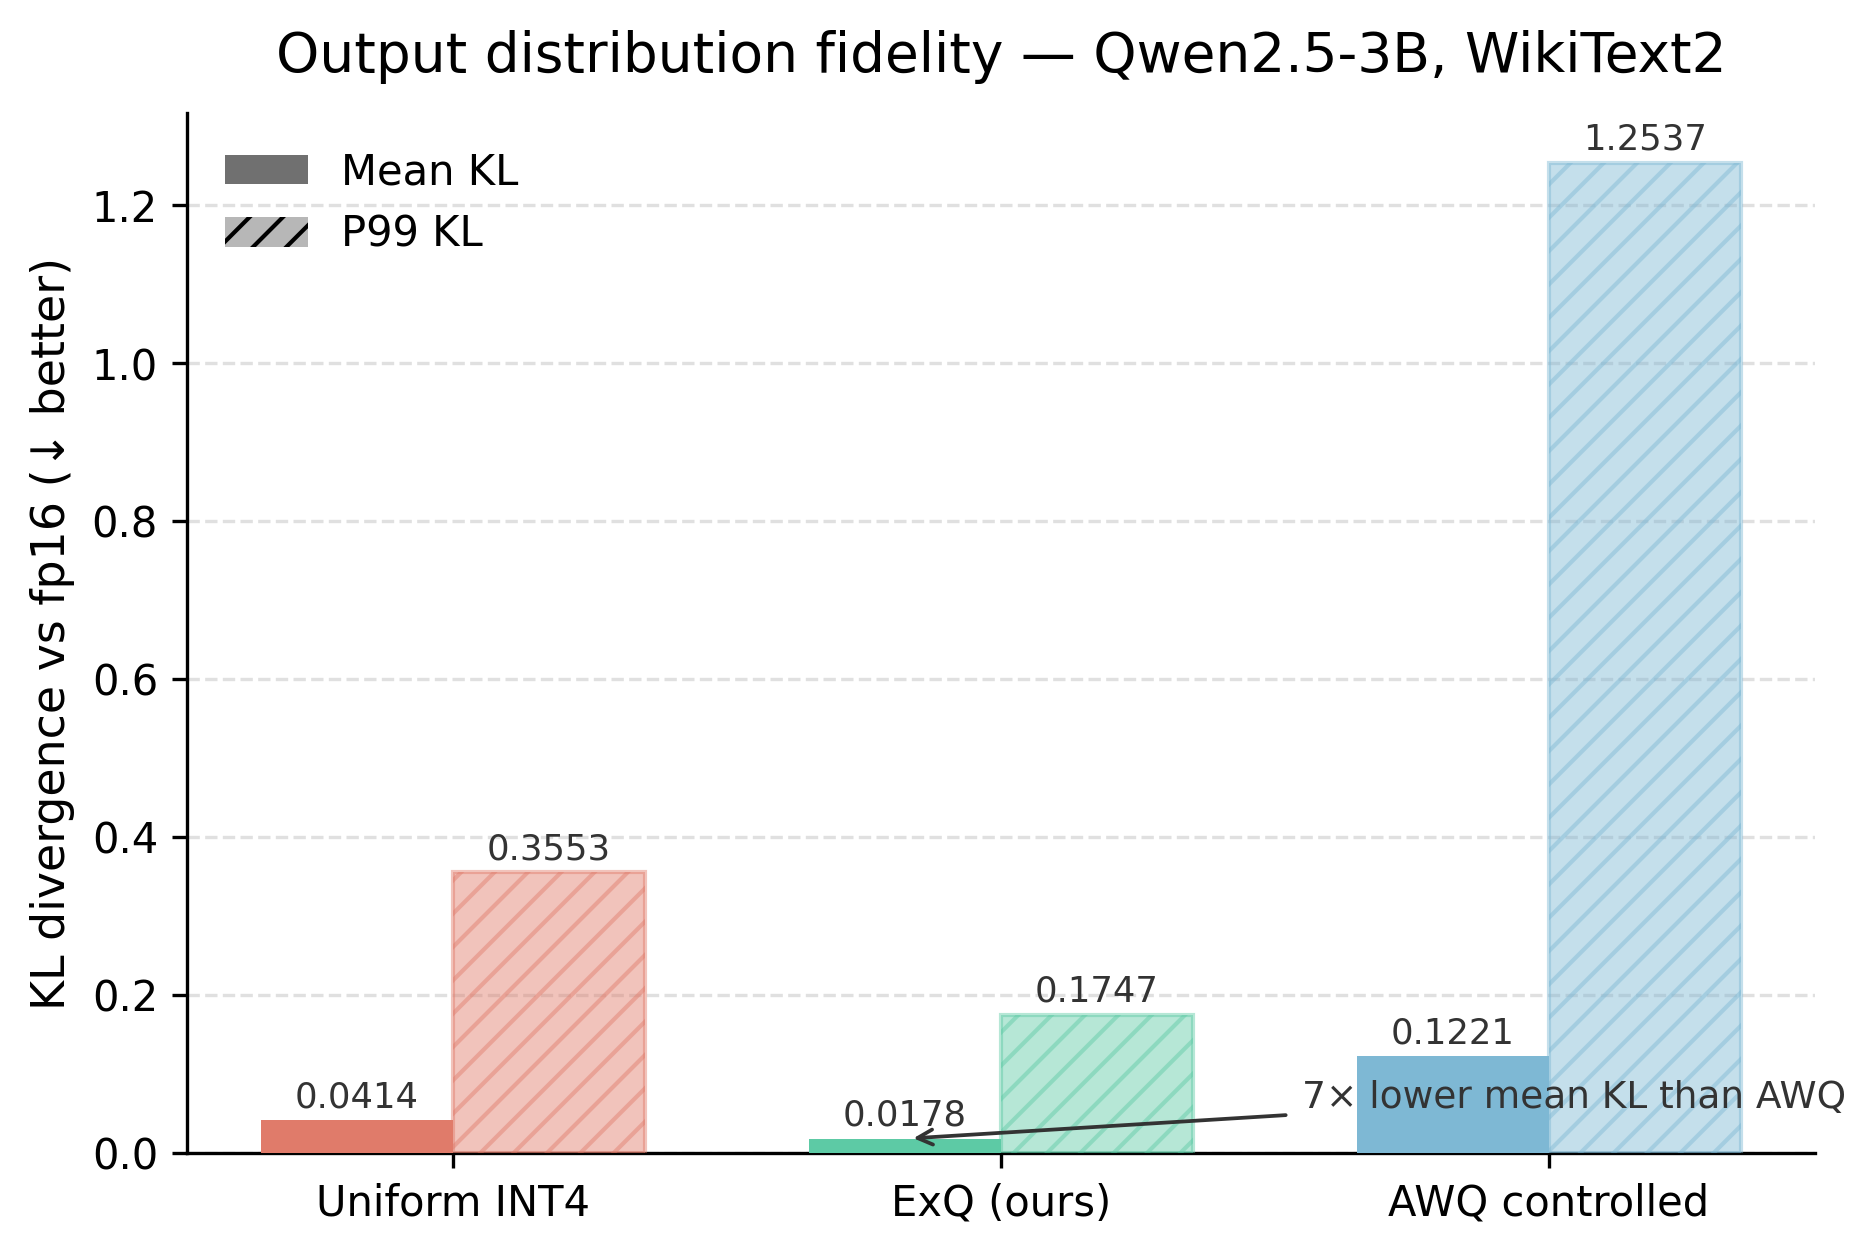
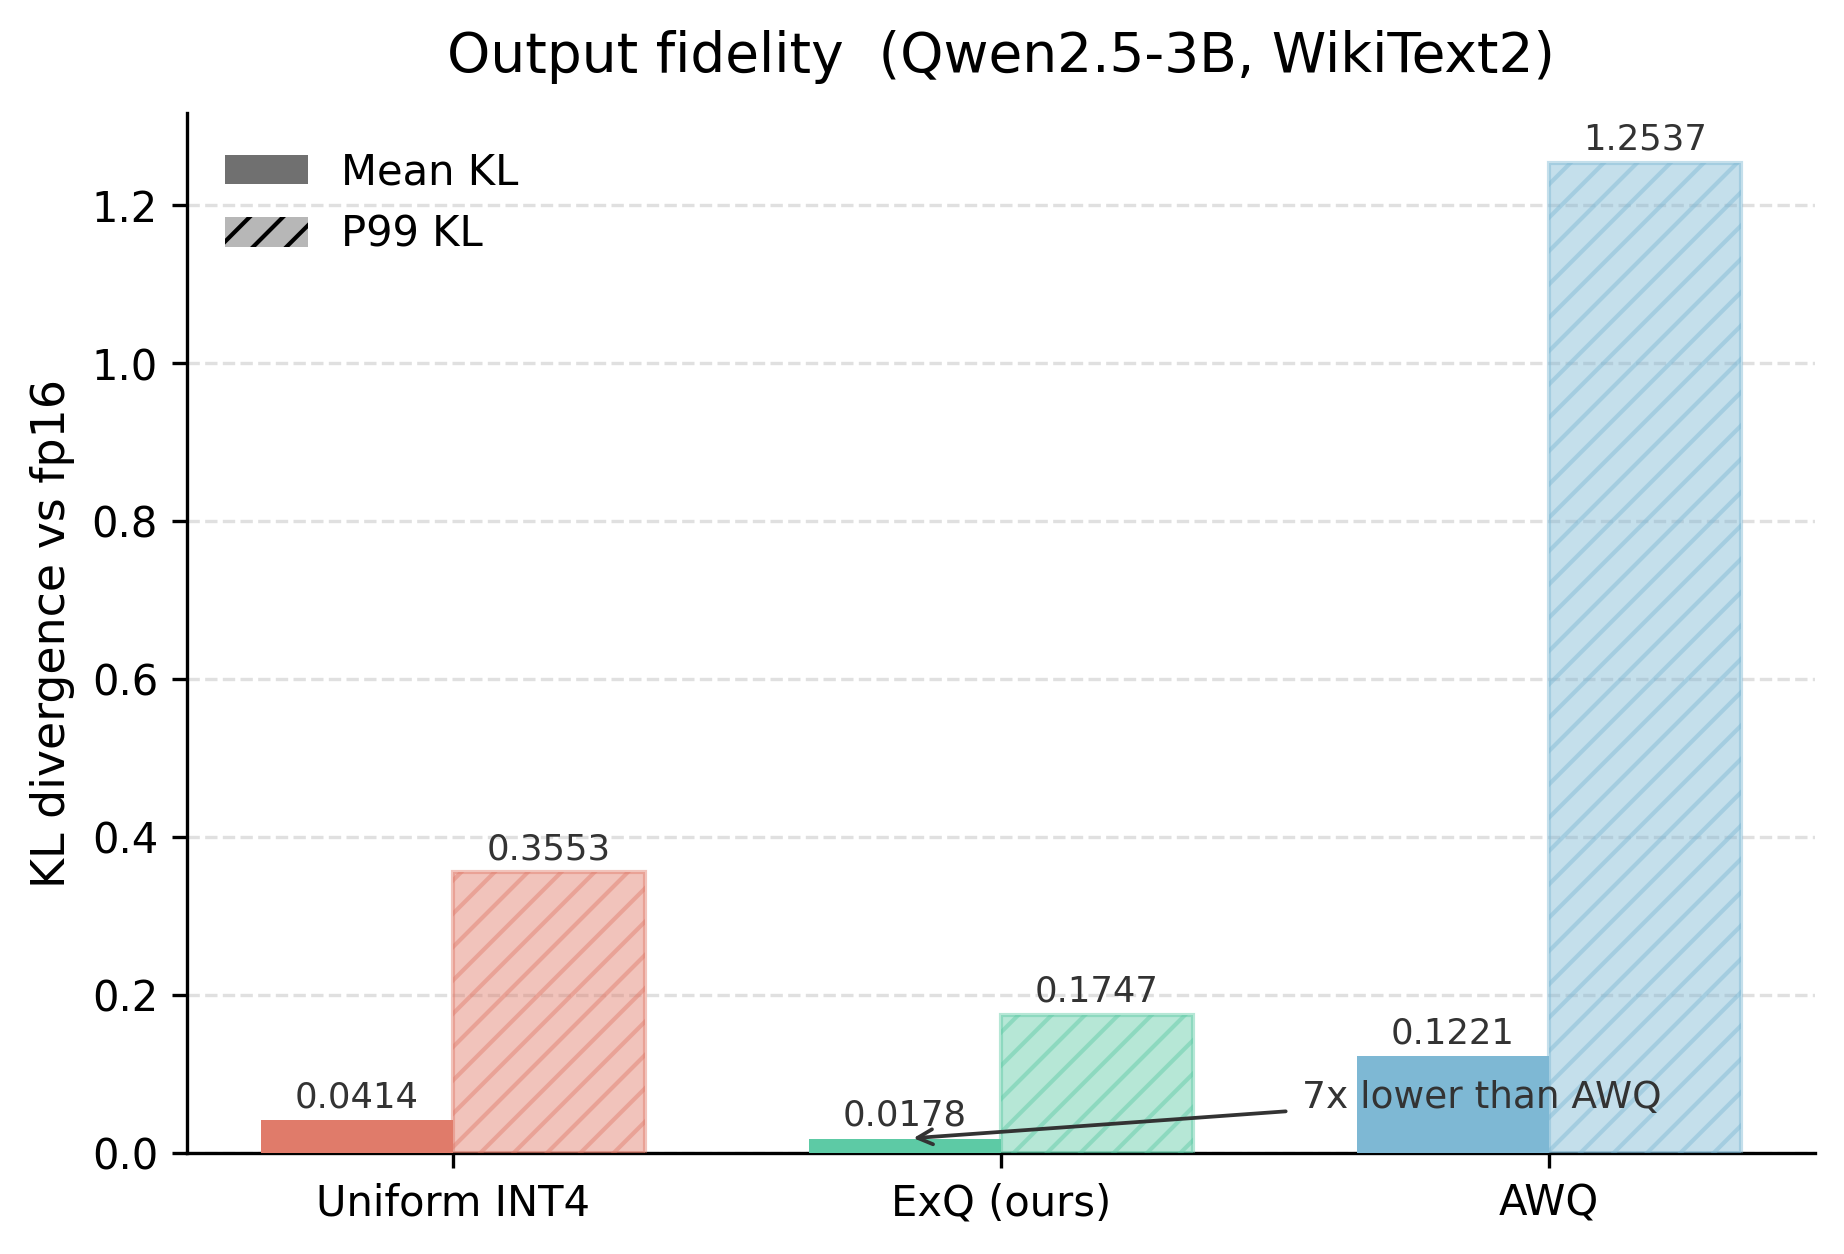
figures: clean up all five plots
Removed:
- All em dashes and en dashes from titles and labels
- Verbose subtitle text (A10G, decode regime, seqlen=1 etc)
- Inline comments and section headers in the code
- Redundant docstring narrative

Fig 1: title 'ExQ INT4 vs SGLang INT4  (same weights, A10G, seqlen=1)'
       y-axis 'ms / token' (was 'Time per output token (ms)')
Fig 2: title 'quant_diff predicts ExQ benefit'
Fig 3: title 'Output fidelity  (Qwen2.5-3B, WikiText2)'
       annotation '7x lower than AWQ' (no em dash)
       y-axis 'KL divergence vs fp16'
Fig 4: title 'ExQ compile time'
       labels shortened (no newline node counts)
Fig 5: subtitle 'ExQ INT4 vs SGLang INT4  (same weights, seqlen=1, A10G)'
       x-axis 'Concurrent decode requests'

diff --git a/figures/fig5_batch_sweep.py b/figures/fig5_batch_sweep.py
@@ -1,82 +1,59 @@
-"""
-Fig 5 — Full production batch sweep: ExQ INT4 vs SGLang INT4
-
-Fair comparison: same packed INT4 weights, same precision.
-Seqlen=1 (pure decode), 1-512 concurrent requests.
-Cross-over point clearly visible on log x-axis.
-
-Data from results/int4_production_batch.json.
-"""
+"""Fig 5: Batch sweep, ExQ INT4 vs SGLang INT4, 1-512 concurrent requests."""
 
 import json
-
 import matplotlib.pyplot as plt
-import numpy as np
 from figures.style import apply_style, CORAL, TEAL, DARK, save
 
 apply_style()
 
-prod = json.load(open("results/int4_production_batch.json"))
-
+prod    = json.load(open("results/int4_production_batch.json"))
 batches = [1, 4, 8, 16, 32, 64, 128, 256, 512]
 
-def get_series(model_key):
+def series(model_key):
     sw = prod[model_key]["batch_sweep"]
-    sg  = [sw[str(b)]["sglang_p50"] for b in batches]
-    exq = [sw[str(b)]["exq_p50"]    for b in batches]
-    return sg, exq
-
-olmoe_sg, olmoe_exq = get_series("olmoe")
-qwen_sg,  qwen_exq  = get_series("qwen3")
+    return ([sw[str(b)]["sglang_p50"] for b in batches],
+            [sw[str(b)]["exq_p50"]    for b in batches])
 
 fig, axes = plt.subplots(1, 2, figsize=(11, 4.5))
 
-for ax, sg, exq, title, crossover_batch in [
-    (axes[0], olmoe_sg, olmoe_exq, "OLMoE-1B-7B\n(64 experts, top-2)",  128),
-    (axes[1], qwen_sg,  qwen_exq,  "Qwen3-30B-A3B\n(128 experts, top-8)", 256),
+for ax, model, title, crossover in [
+    (axes[0], "olmoe", "OLMoE-1B-7B  (64 experts, top-2)",   128),
+    (axes[1], "qwen3", "Qwen3-30B-A3B  (128 experts, top-8)", 256),
 ]:
+    sg, exq = series(model)
+
     ax.plot(batches, sg,  color=CORAL, marker="o", linewidth=2,
             markersize=5.5, label="SGLang INT4", zorder=4)
     ax.plot(batches, exq, color=TEAL,  marker="s", linewidth=2,
             markersize=5.5, label="ExQ INT4",    zorder=4)
 
-    # Shade ExQ-wins region
-    xs_win = [b for b in batches if b >= crossover_batch]
-    sg_win  = [sg[batches.index(b)]  for b in xs_win]
-    exq_win = [exq[batches.index(b)] for b in xs_win]
-    ax.fill_between(xs_win, exq_win, sg_win, alpha=0.12, color=TEAL, zorder=2)
+    xs_win  = [b for b in batches if b >= crossover]
+    ax.fill_between(xs_win,
+                    [exq[batches.index(b)] for b in xs_win],
+                    [sg[batches.index(b)]  for b in xs_win],
+                    alpha=0.12, color=TEAL, zorder=2)
 
-    # Cross-over annotation
-    ax.axvline(crossover_batch, color=DARK, linewidth=0.9,
-               linestyle="--", alpha=0.35, zorder=3)
-    ax.text(crossover_batch * 1.08, ax.get_ylim()[1] if ax.get_ylim()[1] > 0 else 3,
-            f"cross-over\nbatch={crossover_batch}",
-            fontsize=7.5, color=DARK, alpha=0.6, va="top")
+    ax.axvline(crossover, color=DARK, linewidth=0.9, linestyle="--", alpha=0.35, zorder=3)
 
-    # Delta annotations at selected points
     for b, sv, ev in zip(batches, sg, exq):
-        if b in (128, 256, 512) or (b <= 64 and b in (1, 32, 64)):
+        if b in (1, 32, 64, 128, 256, 512):
             d = (sv - ev) / sv * 100
             color = "#0A6E56" if d > 0 else "#8B1A0E"
-            offset_x = b * 0.08
-            offset_y = -0.12 if d > 0 else 0.08
-            ax.annotate(f"{d:+.0f}%", xy=(b, min(sv, ev)),
-                        xytext=(b + offset_x, min(sv, ev) + offset_y),
+            ax.annotate(f"{d:+.0f}%",
+                        xy=(b, min(sv, ev)),
+                        xytext=(b * 1.08, min(sv, ev) + (-0.12 if d > 0 else 0.08)),
                         fontsize=7, color=color, ha="left",
                         fontweight="bold" if abs(d) > 20 else "normal")
 
     ax.set_xscale("log")
     ax.set_xticks(batches)
     ax.set_xticklabels([str(b) for b in batches], fontsize=9)
-    ax.set_xlabel("Concurrent decode requests (batch size)")
-    ax.set_ylabel("Time per output token (ms)")
+    ax.set_xlabel("Concurrent decode requests")
+    ax.set_ylabel("ms / token")
     ax.set_title(title, pad=8, fontsize=10)
     ax.legend(loc="upper left", fontsize=9)
 
-fig.suptitle(
-    "ExQ INT4 vs SGLang INT4 — same weights, decode regime (seqlen=1, A10G, 300-run P50)",
-    y=1.02, fontsize=10,
-)
+fig.suptitle("ExQ INT4 vs SGLang INT4  (same weights, seqlen=1, A10G)", y=1.02, fontsize=10)
 plt.tight_layout()
 save(fig, "figures/fig5_batch_sweep.png")
 plt.close()

diff --git a/figures/fig1_tpot.py b/figures/fig1_tpot.py
@@ -1,14 +1,6 @@
-"""
-Fig 1 — Headline result: ExQ INT4 vs SGLang INT4
-
-Fair comparison: same RTN-packed INT4 weights passed to both kernels.
-Shows the batches where ExQ wins most clearly.
-
-Data from results/int4_production_batch.json  (updated with optimized dispatch).
-"""
+"""Fig 1: ExQ INT4 vs SGLang INT4, production batch sizes."""
 
 import json
-
 import matplotlib.pyplot as plt
 import numpy as np
 from figures.style import apply_style, CORAL, TEAL, DARK, save, bar_label
@@ -17,57 +9,38 @@ apply_style()
 
 prod = json.load(open("results/int4_production_batch.json"))
 
-# ── Operating points: OLMoE batch=128 (+38%), OLMoE batch=256 (+35%), Qwen3 batch=256 (+33%)
 points = [
-    ("OLMoE\nbatch=128",
-     prod["olmoe"]["batch_sweep"]["128"]["sglang_p50"],
-     prod["olmoe"]["batch_sweep"]["128"]["exq_p50"]),
-    ("OLMoE\nbatch=256",
-     prod["olmoe"]["batch_sweep"]["256"]["sglang_p50"],
-     prod["olmoe"]["batch_sweep"]["256"]["exq_p50"]),
-    ("Qwen3-30B\nbatch=256",
-     prod["qwen3"]["batch_sweep"]["256"]["sglang_p50"],
-     prod["qwen3"]["batch_sweep"]["256"]["exq_p50"]),
+    ("OLMoE\nbatch=128",  "olmoe", "128"),
+    ("OLMoE\nbatch=256",  "olmoe", "256"),
+    ("Qwen3-30B\nbatch=256", "qwen3", "256"),
 ]
 
 groups   = [p[0] for p in points]
-baseline = [p[1] for p in points]
-exq      = [p[2] for p in points]
+baseline = [prod[p[1]]["batch_sweep"][p[2]]["sglang_p50"] for p in points]
+exq      = [prod[p[1]]["batch_sweep"][p[2]]["exq_p50"]    for p in points]
 speedups = [(b - e) / b * 100 for b, e in zip(baseline, exq)]
 
-x     = np.arange(len(groups))
-width = 0.35
-
+x, width = np.arange(len(groups)), 0.35
 fig, ax = plt.subplots(figsize=(7, 4.5))
 
-bars_base = ax.bar(x - width / 2, baseline, width,
-                   label="SGLang INT4", color=CORAL, zorder=3)
-bars_exq  = ax.bar(x + width / 2, exq,      width,
-                   label="ExQ INT4",   color=TEAL,  zorder=3)
+bars_base = ax.bar(x - width/2, baseline, width, label="SGLang INT4", color=CORAL, zorder=3)
+bars_exq  = ax.bar(x + width/2, exq,      width, label="ExQ INT4",    color=TEAL,  zorder=3)
 
 for bar in bars_base:
     bar_label(ax, bar, f"{bar.get_height():.3f}", offset=0.03)
 
 for bar, sp in zip(bars_exq, speedups):
     bar_label(ax, bar, f"{bar.get_height():.3f}", offset=0.03)
-    ax.text(
-        bar.get_x() + bar.get_width() / 2,
-        bar.get_height() + 0.14,
-        f"+{sp:.0f}%",
-        ha="center", va="bottom",
-        fontsize=9, color="#0A6E56", fontweight="bold",
-    )
+    ax.text(bar.get_x() + bar.get_width()/2, bar.get_height() + 0.14,
+            f"+{sp:.0f}%", ha="center", va="bottom",
+            fontsize=9, color="#0A6E56", fontweight="bold")
 
-ax.set_ylabel("Time per output token (ms)")
+ax.set_ylabel("ms / token")
 ax.set_xticks(x)
 ax.set_xticklabels(groups, fontsize=10)
 ax.set_ylim(0, max(baseline) * 1.45)
 ax.legend(loc="upper right")
-ax.set_title(
-    "ExQ INT4 vs SGLang INT4 — same packed weights, production batch sizes\n"
-    "A10G · decode (seqlen=1) · 300-run P50",
-    pad=10, fontsize=10,
-)
+ax.set_title("ExQ INT4 vs SGLang INT4  (same weights, A10G, seqlen=1)", pad=10)
 
 save(fig, "figures/fig1_tpot.png")
 plt.close()

diff --git a/figures/fig2_diagnostic.py b/figures/fig2_diagnostic.py
@@ -1,14 +1,4 @@
-"""
-Fig 2 — Diagnostic score vs PPL recovery
-
-Scatter: quant_diff (compile-time diagnostic) vs actual PPL recovery.
-All 6 evaluated models including negative results.
-
-quant_diff from artifacts: count(INT8+BF16) / total_experts
-recovery   from eval_log.txt: avg across wikitext2 and c4
-"""
-
-import json
+"""Fig 2: quant_diff diagnostic score vs PPL recovery."""
 
 import matplotlib.pyplot as plt
 import numpy as np
@@ -16,9 +6,7 @@ from figures.style import apply_style, CORAL, TEAL, DARK, save
 
 apply_style()
 
-# ── Data from artifacts and eval logs ─────────────────────────────────────────
 data = [
-    # (quant_diff, recovery_pct, label, model_type)
     (0.429,  52.9, "OLMoE-1B-7B",   "MoE"),
     (0.010,   1.4, "Qwen1.5-MoE",   "MoE"),
     (0.003,  -0.3, "DeepSeek-V2",   "MoE"),
@@ -29,15 +17,14 @@ data = [
 
 moe_pts   = [(d[0], d[1]) for d in data if d[3] == "MoE"]
 dense_pts = [(d[0], d[1]) for d in data if d[3] == "Dense"]
-all_x     = [d[0] for d in data]
-all_y     = [d[1] for d in data]
+all_x, all_y = [d[0] for d in data], [d[1] for d in data]
 
 fig, ax = plt.subplots(figsize=(6.5, 4.5))
 
 ax.scatter([p[0] for p in moe_pts],   [p[1] for p in moe_pts],
            color=CORAL, s=80, zorder=4, label="MoE")
 ax.scatter([p[0] for p in dense_pts], [p[1] for p in dense_pts],
-           color=TEAL,  s=80, zorder=4, marker="s", label="Dense")
+           color=TEAL, s=80, zorder=4, marker="s", label="Dense")
 
 m, b = np.polyfit(all_x, all_y, 1)
 xs   = np.linspace(-0.01, max(all_x) * 1.05, 200)
@@ -45,7 +32,7 @@ ax.plot(xs, m * xs + b, color=DARK, linewidth=1.0, linestyle="--", alpha=0.4, zo
 
 r = float(np.corrcoef(all_x, all_y)[0, 1])
 
-label_offsets = {
+offsets = {
     "OLMoE-1B-7B":   ( 0.008,  2.5),
     "Qwen1.5-MoE":   ( 0.006, -8.0),
     "DeepSeek-V2":   ( 0.006,  2.5),
@@ -54,14 +41,14 @@ label_offsets = {
     "Qwen2.5-1.5B":  (-0.042, -8.5),
 }
 for qd, rec, label, _ in data:
-    dx, dy = label_offsets[label]
+    dx, dy = offsets[label]
     ax.annotate(label, (qd, rec), xytext=(qd + dx, rec + dy),
                 fontsize=8.5, color=DARK)
 
 ax.axhline(0, color=DARK, linewidth=0.6, alpha=0.35)
 ax.set_xlabel("quant_diff  (fraction of experts at INT8 or BF16)")
 ax.set_ylabel("PPL recovery vs uniform INT4 (%)")
-ax.set_title("Compile-time diagnostic predicts ExQ benefit", pad=10)
+ax.set_title("quant_diff predicts ExQ benefit", pad=10)
 ax.legend(loc="upper left")
 ax.text(0.97, 0.05, f"r = {r:.2f}  (all 6 models)",
         transform=ax.transAxes, ha="right", va="bottom",

diff --git a/figures/fig3_kl.py b/figures/fig3_kl.py
@@ -1,12 +1,6 @@
-"""
-Fig 3 — KL divergence vs fp16 output distribution
-
-Qwen2.5-3B, WikiText2.
-Data from results/kl_qwen2.5-3b_*.json
-"""
+"""Fig 3: KL divergence vs fp16, Qwen2.5-3B, WikiText2."""
 
 import json
-
 import matplotlib.pyplot as plt
 import numpy as np
 from matplotlib.patches import Patch
@@ -18,22 +12,18 @@ kl_i4  = json.load(open("results/kl_qwen2.5-3b_int4.json"))
 kl_exq = json.load(open("results/kl_qwen2.5-3b_rpgo_dense.json"))
 kl_awq = json.load(open("results/kl_qwen2.5-3b_awq_controlled.json"))
 
-variants = ["Uniform INT4", "ExQ (ours)", "AWQ controlled"]
-mean_kl  = [kl_i4["mean"],  kl_exq["mean"],  kl_awq["mean"]]
-p99_kl   = [kl_i4["p99"],   kl_exq["p99"],   kl_awq["p99"]]
+variants = ["Uniform INT4", "ExQ (ours)", "AWQ"]
+mean_kl  = [kl_i4["mean"], kl_exq["mean"], kl_awq["mean"]]
+p99_kl   = [kl_i4["p99"],  kl_exq["p99"],  kl_awq["p99"]]
 colors   = [CORAL, TEAL, BLUE]
 
-x     = np.arange(len(variants))
-width = 0.35
-
+x, width = np.arange(len(variants)), 0.35
 fig, ax = plt.subplots(figsize=(7, 4.5))
 
-bars_mean = [ax.bar(xi - width/2, mean_kl[i], width,
-                    color=colors[i], zorder=3)
+bars_mean = [ax.bar(xi - width/2, mean_kl[i], width, color=colors[i], zorder=3)
              for i, xi in enumerate(x)]
-bars_p99  = [ax.bar(xi + width/2, p99_kl[i],  width,
-                    color=colors[i], alpha=0.45, hatch="///",
-                    zorder=3, edgecolor=colors[i])
+bars_p99  = [ax.bar(xi + width/2, p99_kl[i],  width, color=colors[i],
+                    alpha=0.45, hatch="///", zorder=3, edgecolor=colors[i])
              for i, xi in enumerate(x)]
 
 for bar in [b[0] for b in bars_mean]:
@@ -41,18 +31,18 @@ for bar in [b[0] for b in bars_mean]:
 for bar in [b[0] for b in bars_p99]:
     bar_label(ax, bar, f"{bar.get_height():.4f}", offset=0.008, fontsize=8.5)
 
-ax.set_ylabel("KL divergence vs fp16 (↓ better)")
+ax.set_ylabel("KL divergence vs fp16")
 ax.set_xticks(x)
 ax.set_xticklabels(variants)
-ax.set_title("Output distribution fidelity — Qwen2.5-3B, WikiText2", pad=10)
+ax.set_title("Output fidelity  (Qwen2.5-3B, WikiText2)", pad=10)
 ax.legend(handles=[
-    Patch(facecolor=DARK, alpha=0.7, label="Mean KL"),
+    Patch(facecolor=DARK, alpha=0.7,  label="Mean KL"),
     Patch(facecolor=DARK, alpha=0.35, hatch="///", label="P99 KL"),
 ], loc="upper left")
 
 reduction = mean_kl[2] / mean_kl[1]
 ax.annotate(
-    f"{reduction:.0f}× lower mean KL than AWQ",
+    f"{reduction:.0f}x lower than AWQ",
     xy=(x[1] - width/2, mean_kl[1]),
     xytext=(x[1] + 0.55, mean_kl[1] + 0.04),
     arrowprops=dict(arrowstyle="->", color=DARK, lw=0.9),

diff --git a/figures/fig4_compile_time.py b/figures/fig4_compile_time.py
@@ -1,11 +1,6 @@
-"""
-Fig 4 — Compile time across all 7 models
-
-Data from results/compile_stats.json, ordered by node count.
-"""
+"""Fig 4: Compile time across 7 models."""
 
 import json
-
 import matplotlib.pyplot as plt
 from matplotlib.patches import Patch
 from figures.style import apply_style, CORAL, TEAL, DARK, save
@@ -14,15 +9,14 @@ apply_style()
 
 cs = json.load(open("results/compile_stats.json"))
 
-# (label, key, type)  — ordered by node count ascending
 models = [
-    ("Qwen2.5-1.5B\n(Dense, 336 nodes)",    "qwen2_5_1_5b_dense", "Dense"),
-    ("Qwen2.5-3B\n(Dense, 576 nodes)",       "qwen2_5_3b_dense",   "Dense"),
-    ("OLMoE-1B-7B\n(MoE, 1,024 nodes)",      "olmoe",              "MoE"),
-    ("Qwen1.5-MoE\n(MoE, 1,440 nodes)",      "qwen1_5",            "MoE"),
-    ("DeepSeek-V2-Lite\n(MoE, 1,664 nodes)", "deepseek",           "MoE"),
-    ("GLM-4.7-Flash\n(MoE, 2,944 nodes)",    "glm_reduced8",       "MoE"),
-    ("Qwen3-30B-A3B\n(MoE, 6,144 nodes)",    "qwen3_30b",          "MoE"),
+    ("Qwen2.5-1.5B (Dense, 336)",   "qwen2_5_1_5b_dense", "Dense"),
+    ("Qwen2.5-3B (Dense, 576)",     "qwen2_5_3b_dense",   "Dense"),
+    ("OLMoE-1B-7B (MoE, 1,024)",    "olmoe",              "MoE"),
+    ("Qwen1.5-MoE (MoE, 1,440)",    "qwen1_5",            "MoE"),
+    ("DeepSeek-V2-Lite (MoE, 1,664)","deepseek",           "MoE"),
+    ("GLM-4.7-Flash (MoE, 2,944)",  "glm_reduced8",       "MoE"),
+    ("Qwen3-30B-A3B (MoE, 6,144)",  "qwen3_30b",          "MoE"),
 ]
 
 labels = [m[0] for m in models]
@@ -34,17 +28,17 @@ fig, ax = plt.subplots(figsize=(7.5, 4.5))
 bars = ax.barh(range(len(models)), times, color=colors, height=0.55, zorder=3)
 
 for bar, t in zip(bars, times):
-    ax.text(t + 0.06, bar.get_y() + bar.get_height() / 2,
+    ax.text(t + 0.06, bar.get_y() + bar.get_height()/2,
             f"{t:.2f}s", va="center", fontsize=9.5, color=DARK)
 
 ax.axvline(3.0, color=DARK, linewidth=0.8, linestyle=":", alpha=0.5, zorder=2)
-ax.text(3.05, len(models) - 0.6, "3 s", fontsize=8.5, color=DARK, alpha=0.6, va="top")
+ax.text(3.05, len(models) - 0.6, "3s", fontsize=8.5, color=DARK, alpha=0.6, va="top")
 
 ax.set_yticks(range(len(models)))
 ax.set_yticklabels(labels, fontsize=9.5)
 ax.set_xlabel("Compile time (seconds)")
 ax.set_xlim(0, max(times) * 1.28)
-ax.set_title("ExQ compilation — all models under 3 seconds", pad=10)
+ax.set_title("ExQ compile time", pad=10)
 ax.legend(handles=[
     Patch(facecolor=TEAL,  label="Dense"),
     Patch(facecolor=CORAL, label="MoE"),
